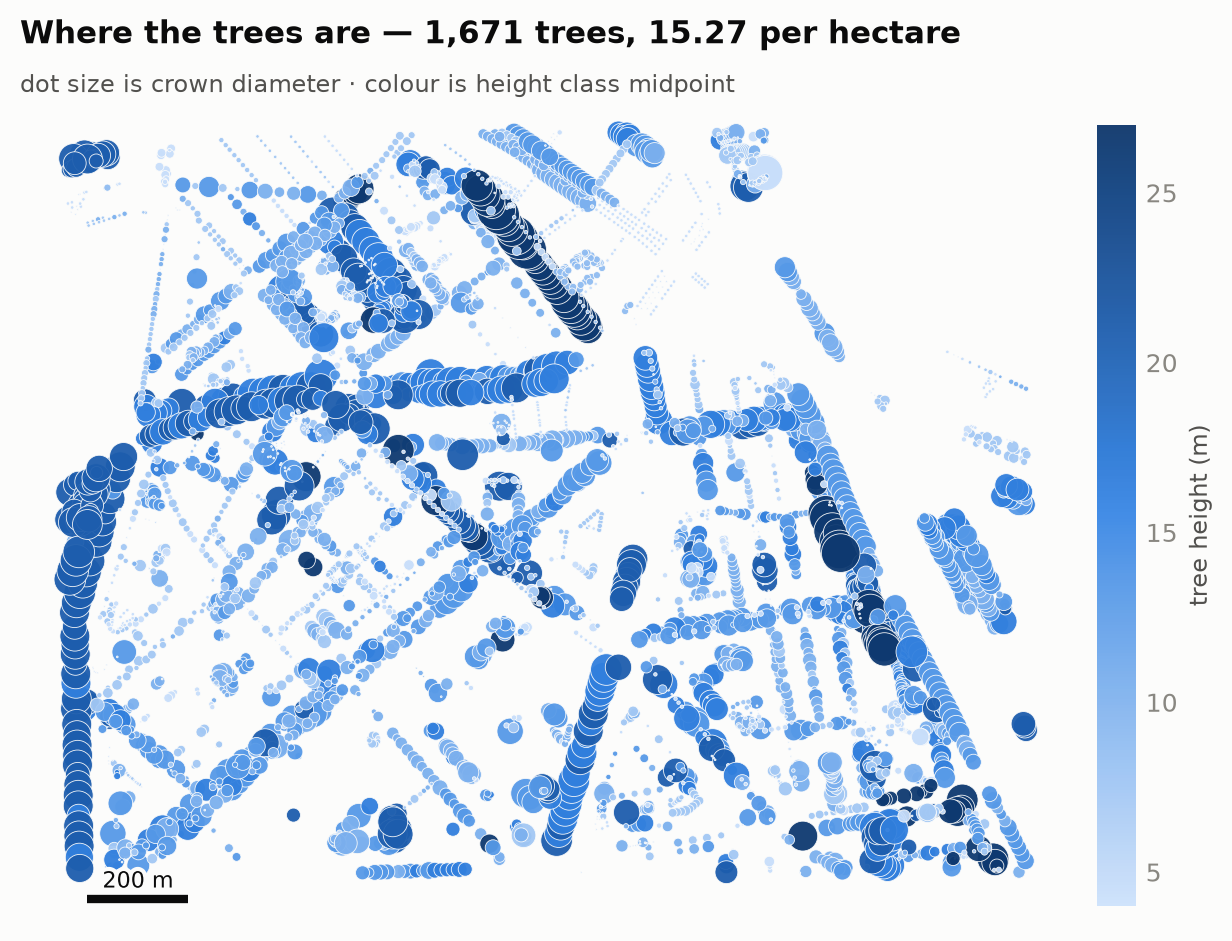
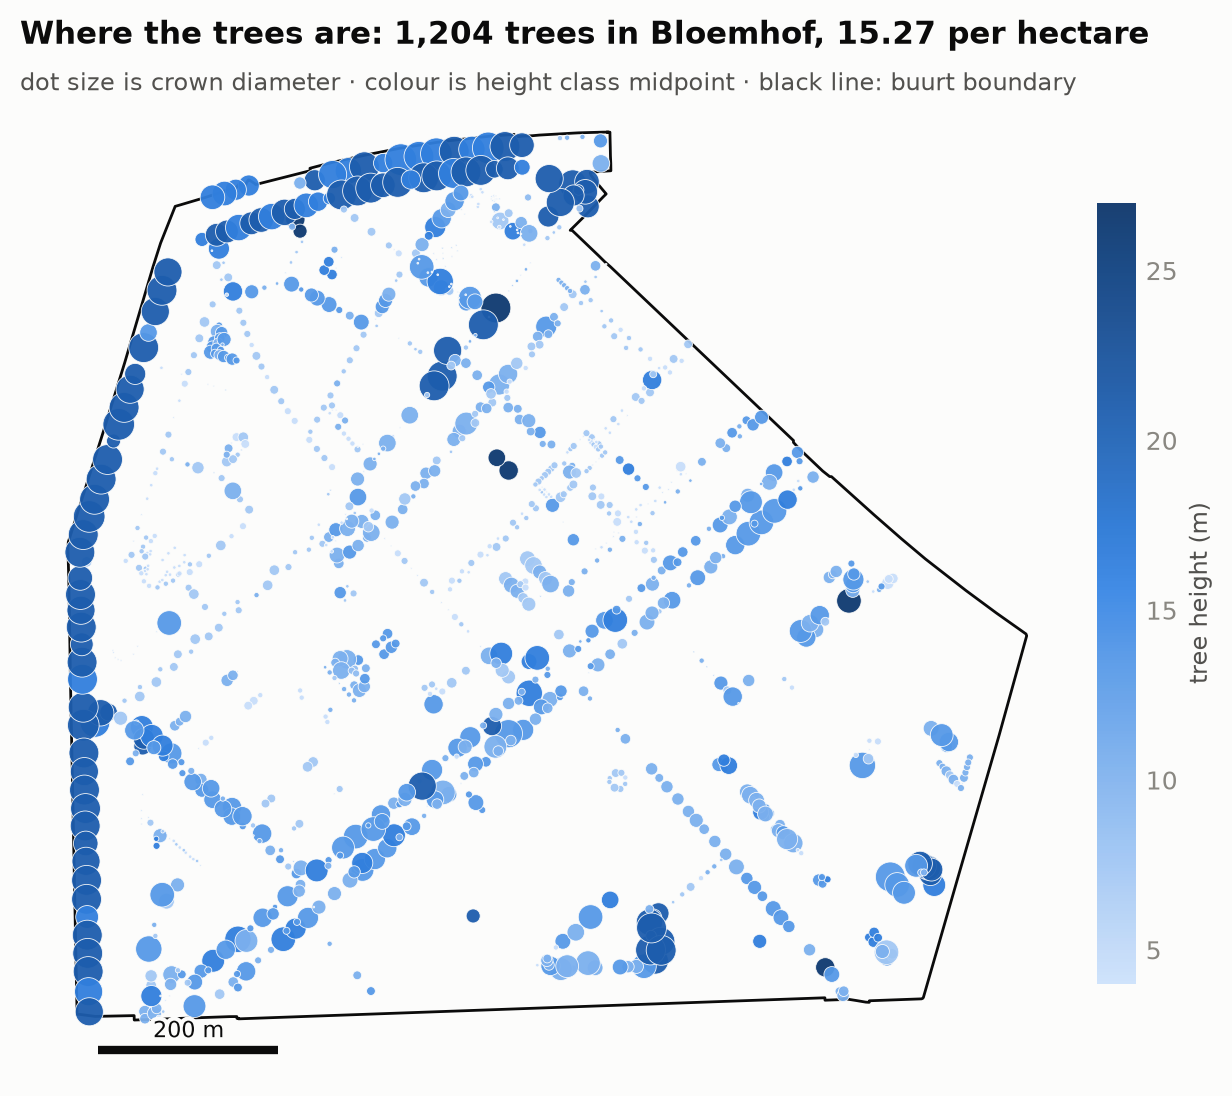
Spacematrix diagram removed from the app and the repo; tree figures clipped to Bloemhof
The density card keeps its tables; fig_spacematrix.png and its code are gone,
READMEs updated. fig_tree_map and fig_tree_heights now show the 1,204 trees in
Bloemhof (with the buurt boundary on the map) instead of all 1,671 in the
download box, matching the vegetation statistics.

diff --git a/app/modules/indicators.js b/app/modules/indicators.js
@@ -404,129 +404,6 @@ function histogramSvg(hist, mean) {
 }
 
 /**
- * The Spacematrix diagram (Berghauser Pont & Haupt 2010), drawn from the
- * per-cell points in density_summary.json.
- *
- * GSI on x, FSI on y. Those two fix L = FSI/GSI, so the diagram carries all
- * three: L is a straight line through the origin. (OSR was dropped on
- * 2026-11-01.) Plotting it is the whole point of computing
- * Spacematrix rather than a bare density figure: fabric types separate by
- * WHERE they sit, not by any single number, and two cells with the same FSI
- * can be a low sprawl or a tall point block depending on GSI.
- *
- * Points are coloured by buurt because that is the finding: a combined cloud
- * hides that the two neighbourhoods occupy different regions.
- *
- * There is a static matplotlib version in docs/fig_spacematrix.png. This one is
- * in the dashboard, and when the proposed massing exists it can be overplotted
- * to show the new fabric moving relative to the existing two.
- */
-function spacematrixSvg(points, perBuurt) {
-  if (!points?.length) return "";
-
-  const W = 268,
-    H = 200,
-    PL = 30,
-    PB = 22,
-    PT = 6,
-    PR = 6;
-  const iw = W - PL - PR,
-    ih = H - PT - PB;
-
-  // Fixed axis maxima rather than data-driven ones: the scales must not move
-  // when a scenario is added, or the "fabric moved" comparison is meaningless.
-  const GMAX = 0.9,
-    FMAX = 4.0;
-  const px = (g) => PL + Math.min(g / GMAX, 1) * iw;
-  const py = (f) => PT + ih - Math.min(f / FMAX, 1) * ih;
-
-  const parts = [];
-
-  // --- L isolines (straight): FSI = L * GSI --------------------------------
-  for (const L of [1, 2, 3, 4, 6]) {
-    const gEnd = Math.min(GMAX, FMAX / L);
-    parts.push(
-      `<line x1="${px(0)}" y1="${py(0)}" x2="${px(gEnd).toFixed(1)}" ` +
-        `y2="${py(L * gEnd).toFixed(1)}" stroke="#2f3a47" stroke-width="0.7"/>`,
-    );
-    parts.push(
-      `<text x="${(px(gEnd) - 1).toFixed(1)}" y="${(py(L * gEnd) + (L >= 4 ? 8 : -2)).toFixed(1)}" ` +
-        `fill="#5d6b7d" font-size="7" text-anchor="end">L ${L}</text>`,
-    );
-  }
-
-  // --- the cells ----------------------------------------------------------
-  const COL = { Bloemhof: "#4dd0e1", Hillesluis: "#ff8a3d" };
-  for (const pt of points) {
-    if (pt.gsi == null || pt.fsi == null) continue;
-    const c = COL[pt.buurt] || "#5b6675";
-    // Cells outside the study area are context, not findings: drawn smaller and
-    // dimmer so they cannot be mistaken for part of the neighbourhood.
-    const r = pt.buurt ? 2.4 : 1.6;
-    parts.push(
-      `<circle cx="${px(pt.gsi).toFixed(1)}" cy="${py(pt.fsi).toFixed(1)}" ` +
-        `r="${r}" fill="${c}" opacity="${pt.buurt ? 0.6 : 0.3}"/>`,
-    );
-  }
-
-  // --- the buurt aggregates, as crosses -----------------------------------
-  for (const [name, b] of Object.entries(perBuurt || {})) {
-    if (b?.gsi == null || b?.fsi == null) continue;
-    const c = COL[name] || "#e7ecf2";
-    const X = px(b.gsi),
-      Y = py(b.fsi);
-    parts.push(
-      `<line x1="${(X - 5).toFixed(1)}" y1="${Y.toFixed(1)}" x2="${(X + 5).toFixed(1)}" ` +
-        `y2="${Y.toFixed(1)}" stroke="${c}" stroke-width="1.6"/>` +
-        `<line x1="${X.toFixed(1)}" y1="${(Y - 5).toFixed(1)}" x2="${X.toFixed(1)}" ` +
-        `y2="${(Y + 5).toFixed(1)}" stroke="${c}" stroke-width="1.6"/>`,
-    );
-  }
-
-  // --- axes ---------------------------------------------------------------
-  parts.push(
-    `<line x1="${PL}" y1="${PT + ih}" x2="${PL + iw}" y2="${PT + ih}" ` +
-      `stroke="#46525f" stroke-width="1"/>`,
-  );
-  parts.push(
-    `<line x1="${PL}" y1="${PT}" x2="${PL}" y2="${PT + ih}" ` +
-      `stroke="#46525f" stroke-width="1"/>`,
-  );
-  for (const g of [0, 0.3, 0.6, 0.9]) {
-    parts.push(
-      `<text x="${px(g).toFixed(1)}" y="${H - PB + 10}" fill="#97a3b2" ` +
-        `font-size="8" text-anchor="middle">${g}</text>`,
-    );
-  }
-  for (const f of [0, 1, 2, 3, 4]) {
-    parts.push(
-      `<text x="${PL - 4}" y="${(py(f) + 3).toFixed(1)}" fill="#97a3b2" ` +
-        `font-size="8" text-anchor="end">${f}</text>`,
-    );
-  }
-  parts.push(
-    `<text x="${(PL + iw / 2).toFixed(0)}" y="${H - 1}" fill="#97a3b2" ` +
-      `font-size="8" text-anchor="middle">GSI (coverage)</text>`,
-  );
-  parts.push(
-    `<text x="9" y="${(PT + ih / 2).toFixed(0)}" fill="#97a3b2" font-size="8" ` +
-      `text-anchor="middle" transform="rotate(-90 9 ${(PT + ih / 2).toFixed(0)})">FSI</text>`,
-  );
-
-  return (
-    `<svg viewBox="0 0 ${W} ${H}" width="100%" height="190" role="img" ` +
-    `aria-label="Spacematrix: GSI against FSI, one point per 100 m grid cell">` +
-    parts.join("") +
-    `</svg>` +
-    `<p class="muted" style="margin:2px 0 0">` +
-    Object.keys(perBuurt || {})  //one swatch per study-area buurt present in the data
-      .map((n) => `<span style="color:${COL[n] || "#e7ecf2"}">●</span> ${n} `).join("") +
-    `<span style="color:#5b6675">●</span> outside the study area · crosses are the buurt ` +
-    `aggregates. Thin lines are storeys (L).</p>`
-  );
-}
-
-/**
  * Spacematrix is scale-sensitive by construction, and here the two aggregation
  * units disagree about which buurt is denser. That is worth saying out loud
  * rather than leaving a reader to trip over it.
@@ -937,8 +814,7 @@ export async function setup(ctx) {
         ["fsi", "FSI", 3],
         ["layers", "storeys", 2],
       ]) +
-      spacematrixSvg(dens.spacematrix, dens.per_buurt) +
-      `<p class="muted">Spacematrix over ${b.land_area_ha} ha, ` +
+      `<p class="muted">Over ${b.land_area_ha} ha, ` +  //the Spacematrix diagram was removed on 2026-11-01
       `${b.n_buildings.toLocaleString("en-GB")} buildings. Grid mean FSI ` +
       `${g.fsi.mean.toFixed(2)} across ${g.n_cells_used} cells of ` +
       `${dens.parameters.cell_size_m} m. Toggle the grid under <em>Analysis</em>.</p>` +

diff --git a/analysis/morphology/make_figures.py b/analysis/morphology/make_figures.py
@@ -196,7 +196,16 @@ def fig_svf_distribution(svf, open_ground, stats):
 
 
 # ====================================================== 4. tree height classes
-def fig_height_classes(trees):
+def in_bloemhof(trees_rd):
+    """The register trees inside the buurt polygon, the same clip as the statistics."""
+    from shapely.geometry import Point
+    from common.project import study_area_polygon
+    area = study_area_polygon()
+    return [f for f in trees_rd["features"] if area.contains(Point(f["geometry"]["coordinates"]))]
+
+
+def fig_height_classes(trees_rd):
+    trees = {"features": in_bloemhof(trees_rd)}  #Bloemhof only, not the whole download box (2026-11-01)
     order = ["<6 m.", "6-9 m.", "9-12 m.", "12-15 m.", "15-18 m.", "18-24 m.", "> 24 m."]
     labels = ["< 6", "6–9", "9–12", "12–15", "15–18", "18–24", "> 24"]
     counts = []
@@ -213,7 +222,7 @@ def fig_height_classes(trees):
     ax.set_xticks(x, labels)
     ax.set_xlabel("height class (m)")
     ax.set_ylabel("trees")
-    titled(ax, "Tree height distribution",
+    titled(ax, f"Tree height distribution: {len(trees['features']):,} trees in {STUDY_AREA.name}",
            "the register records a class, not a measured height"
            + (f" · {unknown} trees unclassified" if unknown else ""))
     peak = int(np.argmax(counts))
@@ -224,10 +233,13 @@ def fig_height_classes(trees):
 
 # ============================================================= 5. tree map
 def fig_tree_map(trees_rd, veg):
-    xs = np.array([f["geometry"]["coordinates"][0] for f in trees_rd["features"]])
-    ys = np.array([f["geometry"]["coordinates"][1] for f in trees_rd["features"]])
-    hs = np.array([f["properties"]["height_m"] for f in trees_rd["features"]])
-    cr = np.array([f["properties"]["crown_m"] for f in trees_rd["features"]])
+    from common.project import study_area_polygon
+    feats = in_bloemhof(trees_rd)  #Bloemhof only, not the whole download box (2026-11-01)
+    xs = np.array([f["geometry"]["coordinates"][0] for f in feats])
+    ys = np.array([f["geometry"]["coordinates"][1] for f in feats])
+    hs = np.array([f["properties"]["height_m"] for f in feats])
+    cr = np.array([f["properties"]["crown_m"] for f in feats])
+    b = veg.get("combined") or {}  #the clipped statistics, so the title matches the dots
 
     fig, ax = plt.subplots(figsize=(7.2, 6.8))
     sc = ax.scatter(xs, ys, c=hs, s=(cr / 2) ** 2 * 1.6, cmap=SEQ,
@@ -236,9 +248,13 @@ def fig_tree_map(trees_rd, veg):
     ax.set_xticks([]); ax.set_yticks([])
     for s in ax.spines.values():
         s.set_visible(False)
-    titled(ax, f"Where the trees are: {veg['n_trees']:,} trees, "
-               f"{veg['trees_per_hectare']} per hectare",
-           "dot size is crown diameter · colour is height class midpoint")
+    area = study_area_polygon()
+    for r in ([area] if area.geom_type == "Polygon" else list(area.geoms)):  #the buurt boundary
+        bx, by = r.exterior.xy
+        ax.plot(bx, by, color=INK, lw=1.0, zorder=0)
+    titled(ax, f"Where the trees are: {len(feats):,} trees in {STUDY_AREA.name}, "
+               f"{b.get('trees_per_hectare', '-')} per hectare",
+           "dot size is crown diameter · colour is height class midpoint · black line: buurt boundary")
 
     cb = fig.colorbar(sc, ax=ax, fraction=0.035, pad=0.02)
     cb.set_label("tree height (m)", color=INK_2, fontsize=8.5)
@@ -317,97 +333,7 @@ def fig_canopy_effect(svf, open_ground, transform, trees_rd):
             "n_open_cells": int(away.size), "n_canopy_cells": int(under.size)}
 
 
-# ========================================================== 7. Spacematrix
-def fig_spacematrix(dens):
-    """
-    The Spacematrix diagram: GSI against FSI, with L (storeys) isolines.
-
-    Berghauser Pont & Haupt (2010). The point of the plot is that FSI alone
-    does not describe a fabric -- where a cell sits in this space tells you
-    whether it is low-rise and packed, mid-rise with courtyards, or towers in
-    open ground. L is not extra data, it is a contour of the same two axes,
-    which is why it is drawn rather than plotted. (OSR, the open space ratio,
-    was dropped on 2026-11-01.)
-    """
-    pts = dens["spacematrix"]
-    g = np.array([p["gsi"] for p in pts])
-    f = np.array([p["fsi"] for p in pts])
-    h = np.array([p["height_mean_m"] if p["height_mean_m"] is not None else np.nan
-                  for p in pts])
-
-    fig, ax = plt.subplots(figsize=(7.2, 6.2))
-    tidy(ax, xgrid=True, ygrid=True)
-    xmax = max(0.75, float(g.max()) * 1.12)
-    ymax = max(2.5, float(f.max()) * 1.12)
-
-    # L isolines: FSI = L * GSI, straight through the origin
-    for L in (1, 2, 3, 4, 6, 8):
-        ax.plot([0, xmax], [0, L * xmax], color=GRID, lw=0.9, zorder=1)
-        yx = L * xmax
-        tag = f"L {L}"          # "L 4" not a bare "4"
-        if yx <= ymax:
-            ax.text(xmax * 0.99, yx, tag, color=MUTED, fontsize=7.5,
-                    va="center", ha="right", zorder=1)
-        else:
-            ax.text(ymax / L, ymax * 0.99, tag, color=MUTED, fontsize=7.5,
-                    va="top", ha="center", zorder=1)
-
-    sc = ax.scatter(g, f, c=h, cmap=SEQ, vmin=4, vmax=22, s=26,
-                    linewidths=0.4, edgecolors=SURFACE, zorder=3)
-
-    # Mark each buurt, and the two together. Two adjacent buurten with different
-    # fabric is the point of the plot: a single combined star would hide that one
-    # is low and packed while the other is taller and more open.
-    #
-    # The labels go in a corner block, not beside the stars. Annotating each
-    # point put text straight through the data cloud and the three captions
-    # overlapped each other.
-    marks = list((dens.get("per_buurt") or {}).values())
-    comb = dens.get("combined") if len(marks) > 1 else None  #one buurt: its star IS the combined figure
-    entries = [(b, False) for b in marks if b] + ([(comb, True)] if comb else [])
-    for b, is_comb in entries:
-        ax.scatter([b["gsi"]], [b["fsi"]], marker="*",
-                   s=460 if is_comb else 320,
-                   color=SERIES_2 if is_comb else INK,
-                   edgecolors=SURFACE, linewidths=1.2, zorder=5)
-
-    if entries:
-        # One text line per entry, drawn separately so each star glyph carries
-        # the colour of the marker it refers to. Two identical black stars with
-        # a shared caption leaves the reader guessing which is which.
-        # An explicit patch, not a text bbox: a bbox sized to placeholder
-        # whitespace ends up far narrower than the lines drawn over it.
-        import matplotlib.patches as mpatch
-        h = 0.042 * len(entries) + 0.030
-        ax.add_patch(mpatch.FancyBboxPatch(
-            (0.012, 0.988 - h), 0.80, h,
-            boxstyle="round,pad=0.006", transform=ax.transAxes,
-            facecolor=SURFACE, edgecolor=GRID, linewidth=0.8, zorder=4))
-        for i, (b, is_comb) in enumerate(entries):
-            y = 0.972 - i * 0.042
-            col = SERIES_2 if is_comb else INK
-            ax.text(0.028, y, "\u2605", transform=ax.transAxes, va="top",
-                    ha="left", fontsize=11, color=col, zorder=6)
-            ax.text(0.058, y, f"{b['name']}:  GSI {b['gsi']:.2f}   "
-                              f"FSI {b['fsi']:.2f}   {b['layers']:.1f} storeys",
-                    transform=ax.transAxes, va="top", ha="left", fontsize=8.5,
-                    color=INK, zorder=6,
-                    fontweight="bold" if is_comb else "normal")
-
-    ax.set_xlim(0, xmax); ax.set_ylim(0, ymax)
-    ax.set_xlabel("GSI: ground space index (built footprint / land area)")
-    ax.set_ylabel("FSI: floor space index (floor area / land area)")
-    titled(ax, "Spacematrix: what kind of density is this?",
-           f"one dot per {dens['parameters']['cell_size_m']:.0f} m cell · "
-           f"grey lines are storeys (L)")
-    cb = fig.colorbar(sc, ax=ax, fraction=0.04, pad=0.02)
-    cb.set_label("mean building height in cell (m)", color=INK_2, fontsize=8.5)
-    cb.outline.set_visible(False)
-    cb.ax.tick_params(colors=MUTED, length=0)
-    save(fig, "fig_spacematrix.png")
-
-
-# ================================================ 8. density + height maps
+# ======================================================== 7. density maps
 def fig_density_maps(dens, grid_geo):
     """GSI and FSI per 100 m cell as two plain maps, with the buurt outline.
 
@@ -899,7 +825,7 @@ def main() -> int:
 
     fig_svf_map(svf, open_ground, stats)
     fig_svf_distribution(svf, open_ground, stats)
-    fig_height_classes(trees)
+    fig_height_classes(trees_rd)
     fig_tree_map(trees_rd, veg)
     effect = fig_canopy_effect(svf, open_ground, transform, trees_rd)
 
@@ -908,7 +834,6 @@ def main() -> int:
     if dens_path.exists() and grid_path.exists():
         dens = json.loads(dens_path.read_text())
         grid_geo = json.loads(grid_path.read_text())
-        fig_spacematrix(dens)
         fig_density_maps(dens, grid_geo)
         site_path = PROCESSED / "density_site.json"  #the scenarios on the design site, density_site.py
         if site_path.exists():

diff --git a/analysis/morphology/density_height.py b/analysis/morphology/density_height.py
@@ -15,9 +15,8 @@ defined aggregation unit:
     FSI = gross floor area / land area         intensity
     L   = FSI / GSI                            mean storeys
 
-GSI and FSI together fix L, so a GSI-FSI scatter with L isolines
-characterises the urban fabric. That plot is produced by
-make_figures.py as fig_spacematrix.png.
+GSI and FSI together fix L. make_figures.py maps GSI and FSI per cell as
+fig_density_maps.png (the Spacematrix scatter was dropped on 2026-11-01).
 
 AGGREGATION UNIT
 ----------------

diff --git a/analysis/morphology/README.md b/analysis/morphology/README.md
@@ -144,15 +144,12 @@ L   = FSI / GSI                       mean storeys
 - **Spacematrix is scale-sensitive.** An FSI at 100 m cells is not comparable
   with one at 50 m. Quote the cell size.
 
-### The diagram, and why it is worth plotting
+### The maps
 
-GSI and FSI fix the storeys, so a GSI–FSI scatter carries all three: L is a
-straight line through the origin. Fabric types separate by
-*where* they sit, which no single number shows. `make_figures.py` writes the static
-`docs/fig_spacematrix.png`; `app/modules/indicators.js` draws the same diagram in
-the dashboard from the 107 per-cell points in `density_summary.json`, coloured
-by buurt, so the proposed massing can later be overplotted to show the new fabric
-move relative to the existing one.
+`make_figures.py` writes `docs/fig_density_maps.png`: GSI and FSI per 100 m
+cell, with the buurt boundary. The Spacematrix scatter (GSI against FSI) was
+dropped from the report and the app on 2026-11-01 as more than the project
+needs. The 107 per-cell points in `density_summary.json` it was drawn from are kept.
 
 Each point carries a `buurt` label, assigned by whichever polygon contains the
 cell **centre**: 81 Bloemhof,
@@ -319,6 +316,6 @@ wide and few, so about half of its street length is not a canyon at all.
 
 ## For the scenario comparison
 
-These indicators are the measuring stick. Add the proposed massing, re-run, and
-compare: the Spacematrix plot will show the new fabric moving relative to the
-existing one.
+These indicators are the measuring stick. Density on the design site per
+scenario is in `density_site.py` (above); SVF, sun hours and H/W have their own
+scenario runs.

diff --git a/README.md b/README.md
@@ -366,8 +366,8 @@ Other results:
 | `fig_canopy_effect.png` | SVF under canopy vs in the open: the vegetation finding |
 | `fig_tree_heights.png` | tree height-class distribution |
 | `fig_tree_map.png` | where the trees are, sized by crown, coloured by height |
-| `fig_spacematrix.png` | GSI–FSI scatter with storey and OSR isolines: what kind of density this is |
-| `fig_density_maps.png` | FSI and within-cell height variation across the study area |
+| `fig_density_maps.png` | GSI and FSI per 100 m cell, with the buurt boundary |
+| `fig_density_site.png` | GSI and FSI on the design site, today and in each scenario |
 | `fig_landuse_mix.png` | what the floor space is used for, and where the mix is |
 | `fig_landuse_abm.png` | the CA's land-use scenarios over the study area, design site outlined |
 | `fig_landuse_rl_site.png` | the design site today vs the RL agent's plan, what changed, and the learning curve |
